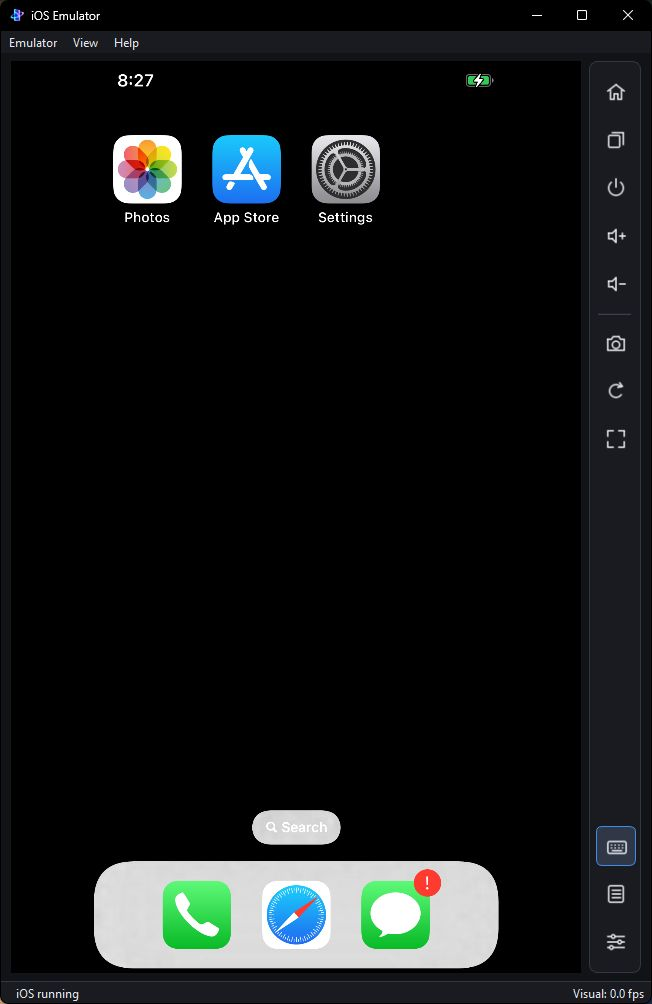
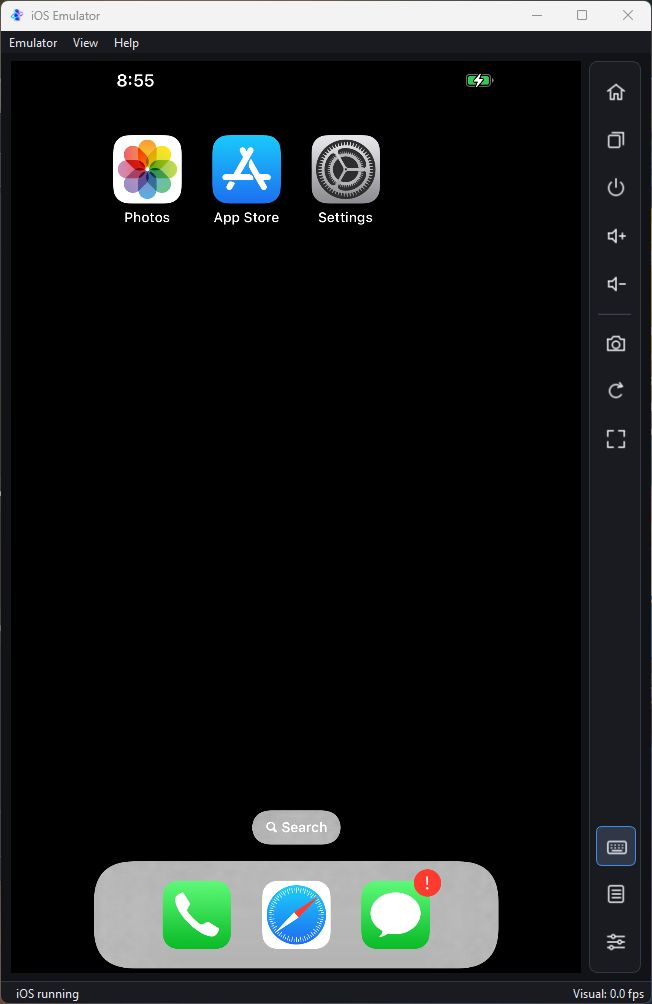
Update OpenGL settings and diagnostic-kernel screenshot context

diff --git a/docs/PERFORMANCE.md b/docs/PERFORMANCE.md
@@ -33,8 +33,13 @@ A native drag at target60 produced a long Settings scroll. Over the following ~8
 
 An8-second QEMU process-time observation while Settings/native preferences were open consumed about3.76 host CPU cores. This is high utilization, but does not distinguish compositor work, service restarts, scheduler work or emulated idle loops. Do not attribute all of it to graphics without more profiling.
 
-Patch0095 adds optional QEMU-only counters outside the HID ring: submitted swaps, vsync callbacks, callback execution time and the panel-copy divisor. The frontend capability-detects them. Comparing these rates with panel presentations will distinguish low upstream submission from slow kernel timer/panel work. Local SweetFramebuffer.cpp cross-compile passed; kernel CI39539338092 is pending.
+Patch0095 adds optional QEMU-only counters outside the HID ring: submitted swaps, vsync callbacks, callback execution time and the panel-copy divisor. The frontend capability-detects them. Comparing these rates with panel presentations will distinguish low upstream submission from slow kernel timer/panel work. Local SweetFramebuffer.cpp cross-compile and kernel CI39539338092 passed. The0095 four-core boot reached Home; idle vsync measured~53–54.5Hz with~0.01ms callback work. Controlled motion profiling is still pending at the user-requested stop.
 
 Record controlled repeated scrolling at several capture targets after the drag fix, separating idle time from motion. Check visual rate and input response with the direct path; profile iOS compositor/TCG time before attempting kernel-side graphics changes. A usable iOS graphics driver/translation backend remains substantial unfinished work. Safari testing stays deferred by the user.
 
 References: [QEMU execution and accelerators](https://www.qemu.org/docs/master/system/introduction.html), [QEMU monitor and gpa2hva](https://www.qemu.org/docs/master/system/monitor).
+
+
+## OpenGL host presentation
+
+Auto/Software/OpenGL host presentation is implemented; native OpenGL reports NVIDIA RTX5070. Deterministic red/blue GPU framebuffer readback and a Software/OpenGL roundtrip passed. Vulkan presentation is unavailable. This changes how Windows displays the framebuffer, not the software iOS compositor. No iOS GPU translator has been implemented.61 host tests and Windows CI39541003669 passed.

diff --git a/docs/SCREENSHOTS.md b/docs/SCREENSHOTS.md
@@ -6,7 +6,7 @@ All images below are actual native Windows application captures from 2026-10-21,
 
 ![Native emulator Home with current icon](screenshots/windows-home.jpg)
 
-Kernel0094, four QEMU CPUs,4096 MiB iOS memory,60 capture target. Run20261021-102412-800300 reached Home without agent Home/Power input. The wallpaper trial still displays black. The Visual counter counts distinct images painted; idle0fps is expected and the target does not establish animation speed.
+Latest Home capture:kernel0095, four QEMU CPUs,4096 MiB iOS memory,15 capture target, NVIDIA OpenGL host presentation. Run20261021-105027-498100 reached Home without agent Home/Power input. The wallpaper trial still displays black. The Visual counter counts distinct images painted; idle0fps is expected and the target does not establish animation speed.
 
 ## Actual iOS identity
 
@@ -26,6 +26,6 @@ Help → System Information shows Windows11 build26200, Intel i5-14400F,16 logic
 
 ![Current native dark settings](screenshots/windows-settings-dark.jpg)
 
-Current icon, dropdown resource inputs and readable OK/Cancel. CPU/memory can change while stopped; while running those controls are disabled and the capture target can change live.
+Current icon, dropdown resource inputs, Auto/Software/OpenGL/Vulkan host renderer choices and readable OK/Cancel. The latest settings capture reports active NVIDIA RTX5070 OpenGL; Vulkan is unavailable until a presenter exists. CPU/memory can change while stopped; while running those controls are disabled and the capture target can change live.
 
 These captures do not demonstrate iOS GPU acceleration, Safari webpage drawing or general application compatibility. Earlier two/four-core RTC pause/resume and clean shutdown evidence is recorded in NOTES.md. Firmware, network captures, full diagnostics and private iOS content stay outside Git. Apple and iOS names belong to their owners; this independent research project has no Apple affiliation.
